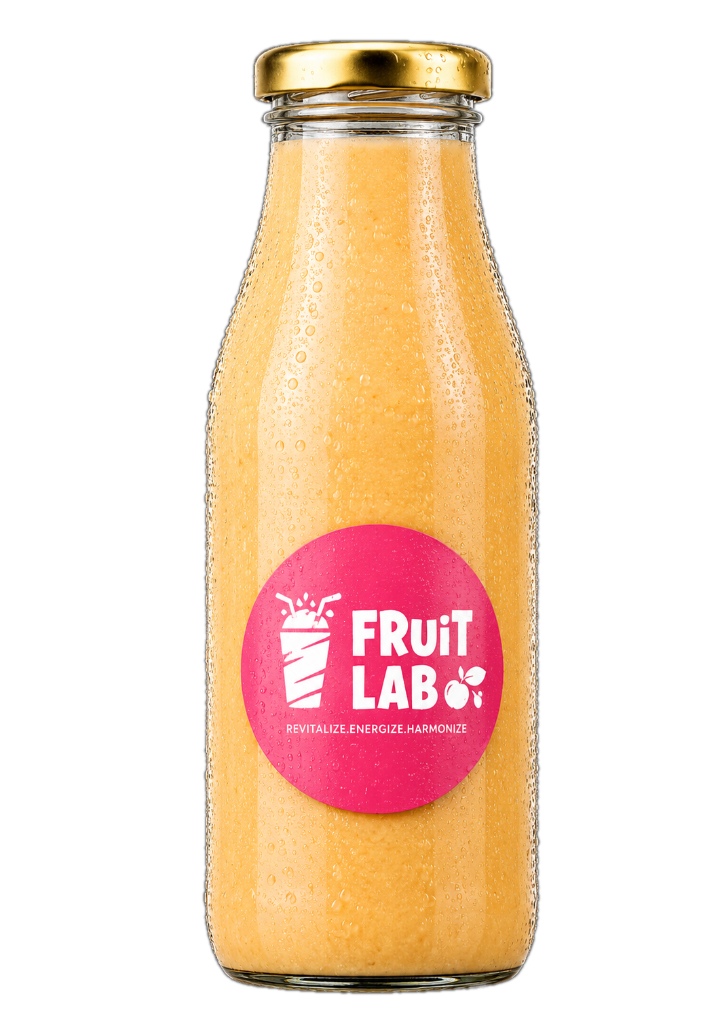
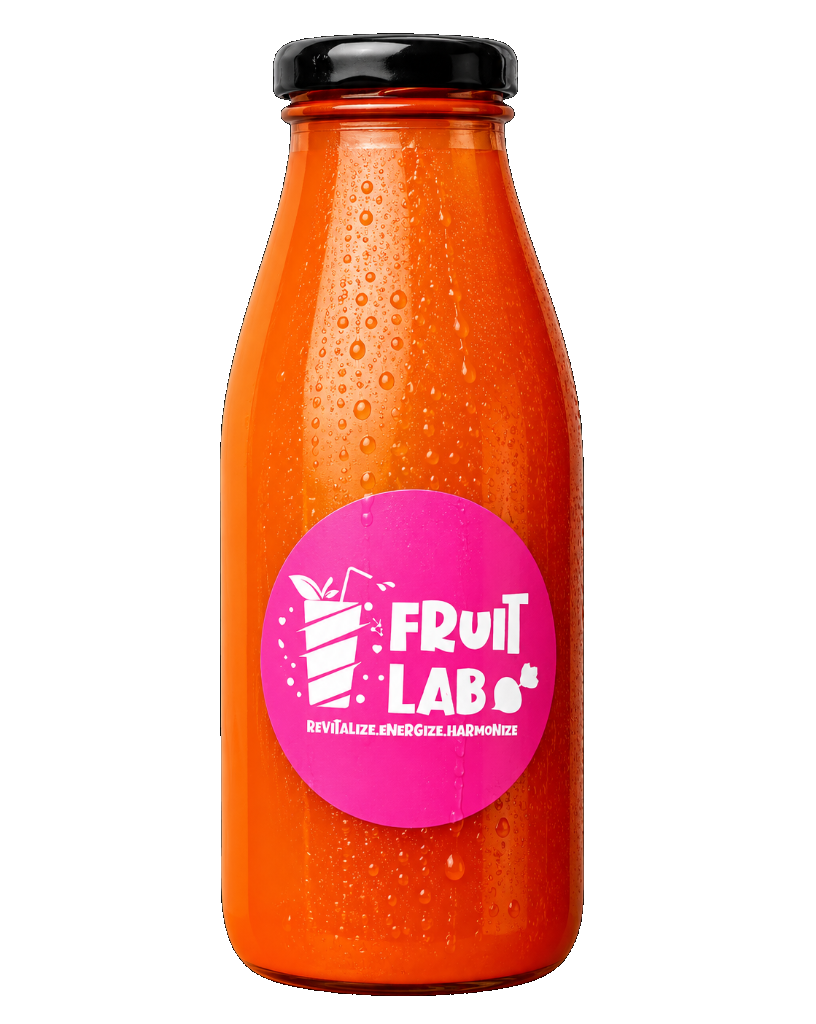
Restore original hero parallax transparent bottle images (orange, red, yellow) from git history

diff --git a/index.html b/index.html
@@ -12,7 +12,7 @@
     <!-- FontAwesome for Icons -->
     <link rel="stylesheet" href="https://cdnjs.cloudflare.com/ajax/libs/font-awesome/6.4.0/css/all.min.css">
     <!-- Main Stylesheet -->
-    <link rel="stylesheet" href="style.css?v=86">
+    <link rel="stylesheet" href="style.css?v=87">
 </head>
 <body class="home-page">
     <!-- Page Loader -->
@@ -233,7 +233,7 @@
 
                 <div class="slider-viewport" id="slider-viewport">
                     <div class="slider-track" id="slider-track">
-                        <!-- Cards are dynamically spawned by script.js?v=86 -->
+                        <!-- Cards are dynamically spawned by script.js?v=87 -->
                     </div>
                 </div>
 
@@ -584,6 +584,6 @@
     <script src="assets/js/gsap.min.js"></script>
     <script src="assets/js/ScrollTrigger.min.js"></script>
     <!-- Main JS Code -->
-    <script src="script.js?v=86"></script>
+    <script src="script.js?v=87"></script>
 </body>
 </html>

diff --git a/about.html b/about.html
@@ -12,7 +12,7 @@
     <!-- FontAwesome for Icons -->
     <link rel="stylesheet" href="https://cdnjs.cloudflare.com/ajax/libs/font-awesome/6.4.0/css/all.min.css">
     <!-- Main Stylesheet -->
-    <link rel="stylesheet" href="style.css?v=86">
+    <link rel="stylesheet" href="style.css?v=87">
     <style>
         .about-page-hero {
             padding: 160px 0 100px 0;
@@ -741,7 +741,7 @@
     <script src="assets/js/gsap.min.js"></script>
     <script src="assets/js/ScrollTrigger.min.js"></script>
     <!-- Main JS Code -->
-    <script src="script.js?v=86"></script>
+    <script src="script.js?v=87"></script>
     <script>
         // Page specific entrance animation
         if (typeof gsap !== 'undefined') {

diff --git a/admin.html b/admin.html
@@ -14,7 +14,7 @@
     <link rel="stylesheet" href="https://cdnjs.cloudflare.com/ajax/libs/font-awesome/6.4.0/css/all.min.css">
     
     <!-- Base Stylesheet -->
-    <link rel="stylesheet" href="style.css?v=86">
+    <link rel="stylesheet" href="style.css?v=87">
     
     <style>
         .admin-container {
@@ -546,7 +546,7 @@
     </div>
 
     <!-- Scripts -->
-    <script src="script.js?v=86"></script>
+    <script src="script.js?v=87"></script>
     <script>
         // Check Admin Auth
         fetch('/api/auth/session')

diff --git a/contact.html b/contact.html
@@ -12,7 +12,7 @@
     <!-- FontAwesome for Icons -->
     <link rel="stylesheet" href="https://cdnjs.cloudflare.com/ajax/libs/font-awesome/6.4.0/css/all.min.css">
     <!-- Main Stylesheet -->
-    <link rel="stylesheet" href="style.css?v=86">
+    <link rel="stylesheet" href="style.css?v=87">
     <style>
         .contact-page-hero {
             padding: 160px 0 100px 0;
@@ -258,7 +258,7 @@
     <script src="assets/js/gsap.min.js"></script>
     <script src="assets/js/ScrollTrigger.min.js"></script>
     <!-- Main JS Code -->
-    <script src="script.js?v=86"></script>
+    <script src="script.js?v=87"></script>
     <script>
         // Page specific entrance animation
         if (typeof gsap !== 'undefined') {

diff --git a/franchises.html b/franchises.html
@@ -12,7 +12,7 @@
     <!-- FontAwesome for Icons -->
     <link rel="stylesheet" href="https://cdnjs.cloudflare.com/ajax/libs/font-awesome/6.4.0/css/all.min.css">
     <!-- Main Stylesheet -->
-    <link rel="stylesheet" href="style.css?v=86">
+    <link rel="stylesheet" href="style.css?v=87">
     <style>
         .franchise-page-hero {
             padding: 160px 0 100px 0;
@@ -667,7 +667,7 @@
     <script src="assets/js/gsap.min.js"></script>
     <script src="assets/js/ScrollTrigger.min.js"></script>
     <!-- Main JS Code -->
-    <script src="script.js?v=86"></script>
+    <script src="script.js?v=87"></script>
     <script>
         // Page specific entrance animation
         if (typeof gsap !== 'undefined') {

diff --git a/login.html b/login.html
@@ -14,7 +14,7 @@
     <link rel="stylesheet" href="https://cdnjs.cloudflare.com/ajax/libs/font-awesome/6.4.0/css/all.min.css">
     
     <!-- Base Stylesheet -->
-    <link rel="stylesheet" href="style.css?v=86">
+    <link rel="stylesheet" href="style.css?v=87">
     
     <style>
         .auth-container {
@@ -631,7 +631,7 @@
     </footer>
 
     <!-- Scripts -->
-    <script src="script.js?v=86"></script>
+    <script src="script.js?v=87"></script>
     <script>
         // Google Sign In Setup (Real SDK + Sandbox Fallback)
         fetch('/api/auth/google-client-id')

diff --git a/profile.html b/profile.html
@@ -14,7 +14,7 @@
     <link rel="stylesheet" href="https://cdnjs.cloudflare.com/ajax/libs/font-awesome/6.4.0/css/all.min.css">
     
     <!-- Base Stylesheet -->
-    <link rel="stylesheet" href="style.css?v=86">
+    <link rel="stylesheet" href="style.css?v=87">
     
     <style>
         .profile-container {
@@ -585,7 +585,7 @@
     </footer>
 
     <!-- Scripts -->
-    <script src="script.js?v=86"></script>
+    <script src="script.js?v=87"></script>
     <script>
         let menuItemsLookup = [];
 

diff --git a/subscriptions.html b/subscriptions.html
@@ -14,7 +14,7 @@
     <link rel="stylesheet" href="https://cdnjs.cloudflare.com/ajax/libs/font-awesome/6.4.0/css/all.min.css">
     
     <!-- Base Stylesheet -->
-    <link rel="stylesheet" href="style.css?v=86">
+    <link rel="stylesheet" href="style.css?v=87">
     
     <style>
         /* Subscriptions Hero */
@@ -1281,7 +1281,7 @@
     <script src="assets/js/gsap.min.js"></script>
     <script src="assets/js/ScrollTrigger.min.js"></script>
     <!-- Main JS Code -->
-    <script src="script.js?v=86"></script>
+    <script src="script.js?v=87"></script>
     
     <script>
         // Check session auth for navbar link state